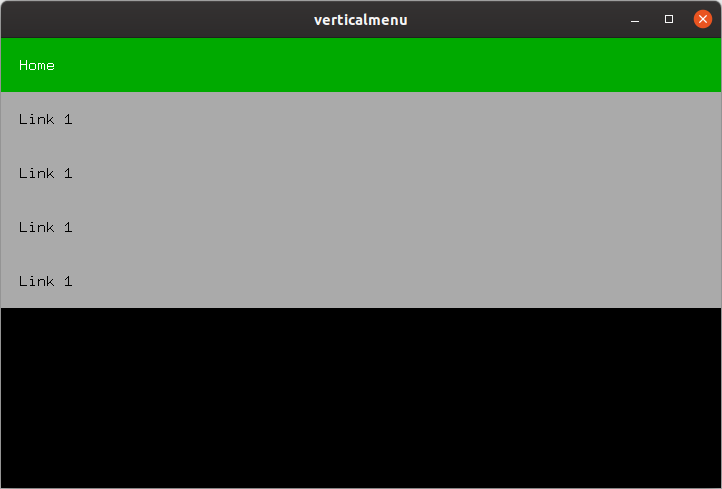
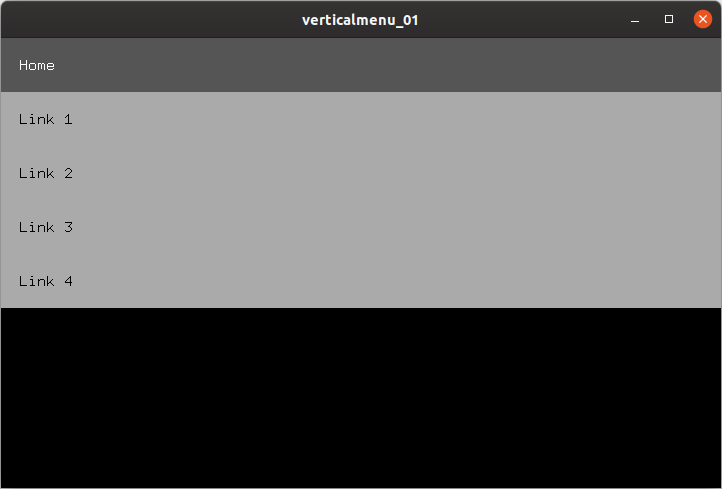
Update

Changed region(s): [[0.0, 0.0307, 1.0, 0.2147]]

diff --git a/docs/_verticalmenu/VerticalMenu.md b/docs/_verticalmenu/VerticalMenu.md
@@ -7,13 +7,99 @@ title: Vertical Menu
 
 Learn how to create a vertical menu with Harbour.
 
-## Vertical Menu
+## Check method of operation.
 
-#### [Source code](https://github.com/rjopek/howto/blob/master/src/verticalmenu/verticalmenu.prg)
+<style>
+.vertical-menu {
+  font-family: "Consolas";
+  width: 720px;
+  height: 400px;
+  background-color: #000;  
+  
+}
+
+.vertical-menu a {
+  background-color: #aaa; 
+  color: black; 
+  display: block; 
+  padding: 12px; 
+  text-decoration: none; 
+}
+
+.vertical-menu a:hover {
+  background-color: #555; 
+  color: #fff; 
+}
+
+</style>
+
+<div class="vertical-menu">
+  <a href="#">Home</a>
+  <a href="#">Link 1</a>
+  <a href="#">Link 2</a>
+  <a href="#">Link 3</a>
+  <a href="#">Link 4</a>
+</div>
+
+## Try it Yourself >>
+
+#### [Source code](https://github.com/rjopek/howto/blob/master/src/verticalmenu/verticalmenu_01.prg)
 
 #### Output:
 
 ![Linux]({{ site.baseurl }}/assets/img/verticalmenu_01.png "With family Linux Ubuntu desktop")
 
+---
+
+
+## Check method of operation.
+
+Added a green color to the "active/current" link.
+
+<style>
+.vertical-menu {
+  font-family: 'Consolas';
+  width: 720px;
+  height: 400px;
+  background-color: #000;  
+  
+}
+
+.vertical-menu a {
+  background-color: #aaa; 
+  color: black; 
+  display: block; 
+  padding: 12px; 
+  text-decoration: none; 
+}
+
+.vertical-menu a:hover {
+  background-color: #555; 
+  color: #fff; 
+}
+
+.vertical-menu a.active {
+  background-color: #00aa00; 
+  color: #fff; 
+}
+</style>
+
+<div class="vertical-menu">
+  <a href="#" class="active">Home</a>
+  <a href="#">Link 1</a>
+  <a href="#">Link 2</a>
+  <a href="#">Link 3</a>
+  <a href="#">Link 4</a>
+</div>
+
+## Try it Yourself >>
+
+#### [Source code](https://github.com/rjopek/howto/blob/master/src/verticalmenu/verticalmenu_02.prg)
+
+#### Output:
+
+
 ![Linux]({{ site.baseurl }}/assets/img/verticalmenu_02.png "With family Linux Ubuntu desktop")
+
+---
 
